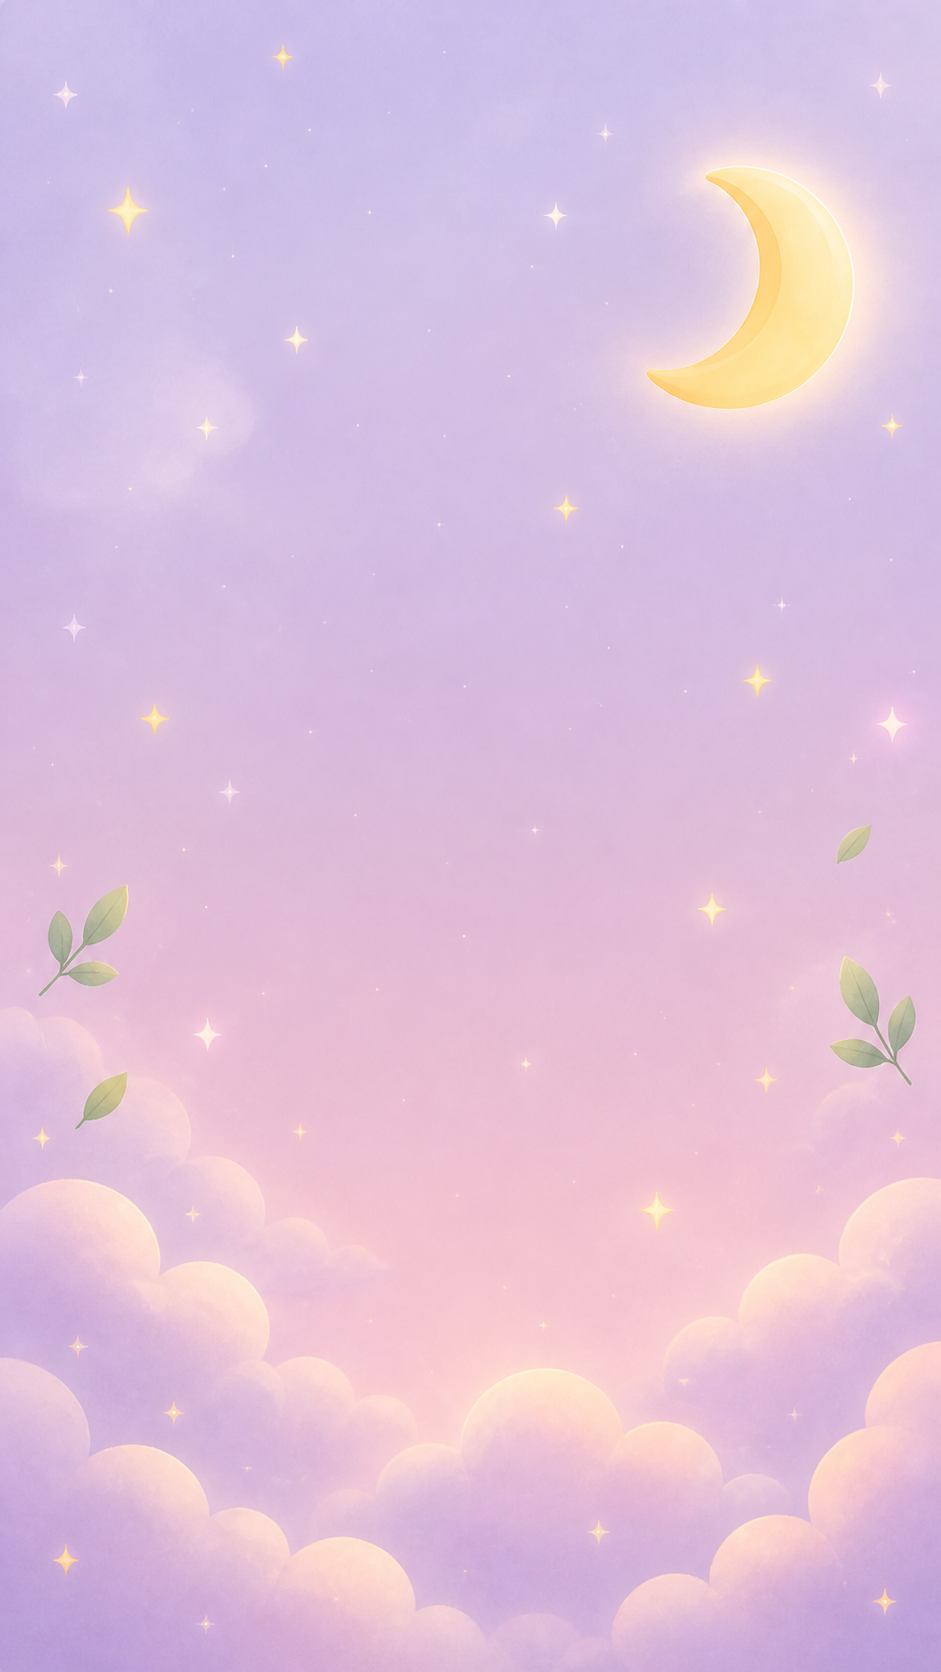
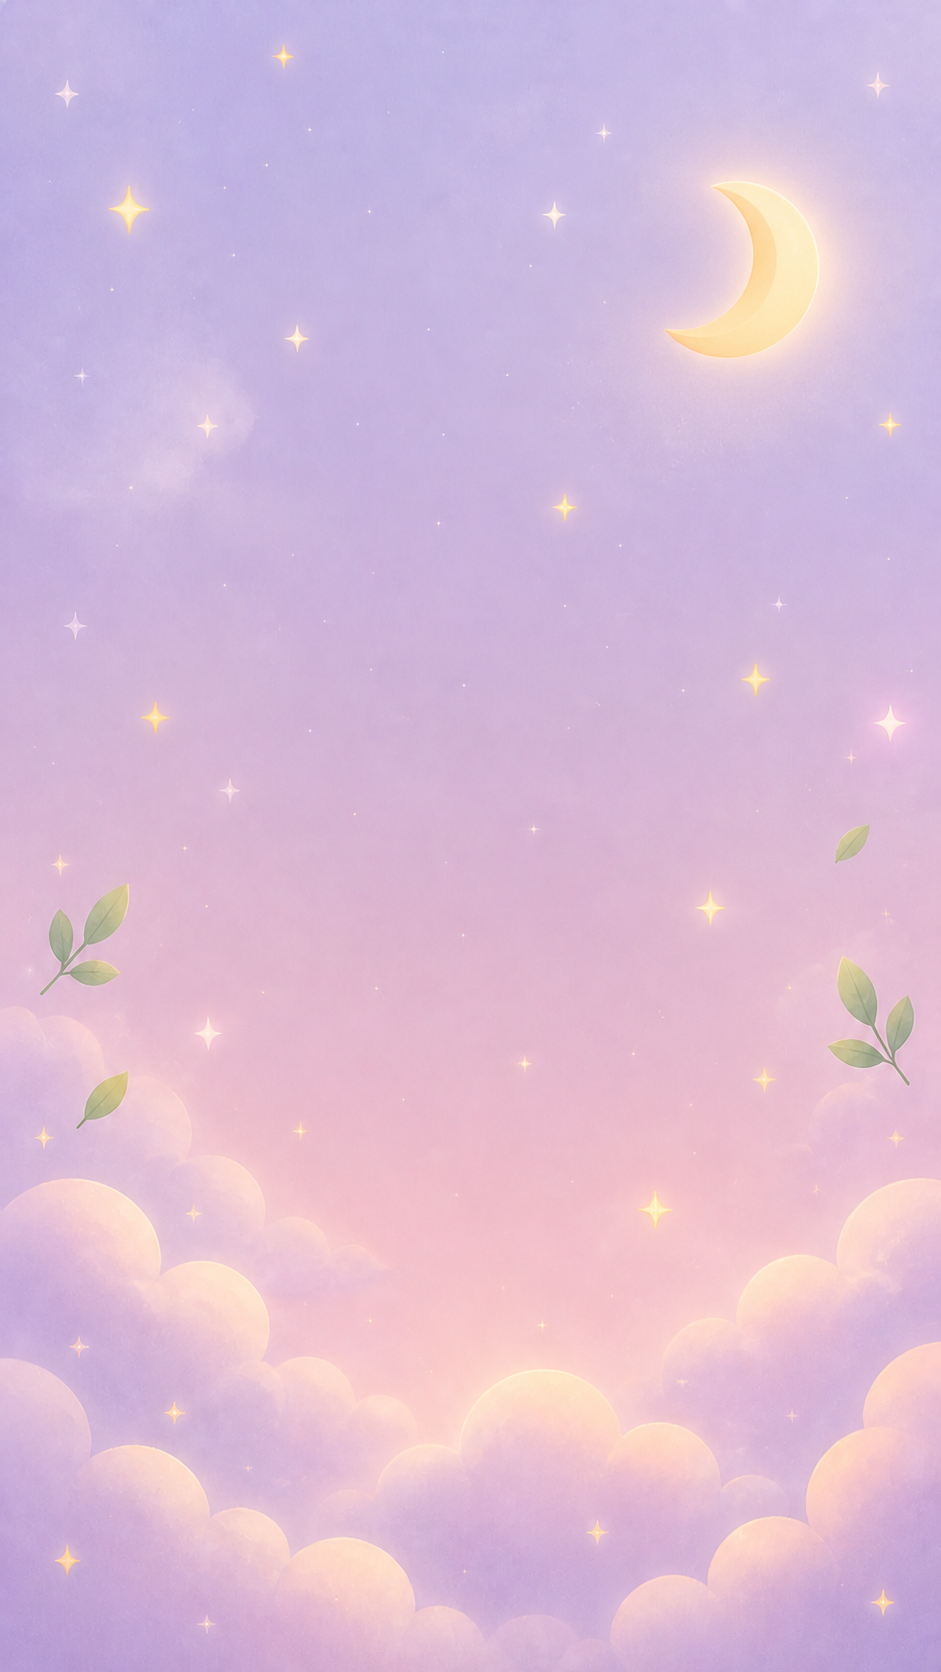
fixing backgrounds

Changed region(s): [[0.678, 0.0933, 0.9554, 0.2799], [0.9245, 0.5909, 0.9554, 0.6531]]

diff --git a/snoozy-android/src/screens/HomeScreen.tsx b/snoozy-android/src/screens/HomeScreen.tsx
@@ -141,9 +141,15 @@ export function HomeScreen() {
       >
         <LinearGradient
           colors={['transparent', `${colors.background}22`, `${colors.background}99`]}
-          locations={[0, 0.7, 1]}
+          locations={[0, 0, 1]}
           style={StyleSheet.absoluteFill}
         />
+
+        {/* <LinearGradient
+          colors={['transparent', `${colors.background}AA`, colors.background]}
+          locations={[0, 0.55, 1]}
+          style={StyleSheet.absoluteFill}
+        /> */}
       </ImageBackground>
 
       <SafeAreaView edges={['bottom']} style={styles.safeArea}>
@@ -151,6 +157,7 @@ export function HomeScreen() {
         data={savedStories.slice(0, 3)}
         renderItem={renderItem}
         keyExtractor={keyExtractor}
+        scrollEnabled={savedStories.length > 0}
         onScroll={handleScroll}
         scrollEventThrottle={16}
         ItemSeparatorComponent={() => <View style={styles.separator} />}
@@ -163,7 +170,7 @@ export function HomeScreen() {
               <Text style={styles.greetingLead}>{getGreetingLead()}</Text>
               <View style={styles.nameRow}>
                 <Text style={styles.childName}>{childName}</Text>
-                <Text style={[styles.starGlyph, { color: colors.starGold }]}>✦</Text>
+                {/* <Text style={[styles.starGlyph, { color: colors.starGold }]}>✦</Text> */}
               </View>
               {/* <Text style={[styles.greetingSub, { color: colors.vibeSelected }]}>
                 Ready for a magical story?

diff --git a/snoozy-android/src/screens/SplashScreen.tsx b/snoozy-android/src/screens/SplashScreen.tsx
@@ -120,8 +120,8 @@ const styles = StyleSheet.create({
     marginBottom: Spacing.md,
   },
   mascot: {
-    width: SCREEN_WIDTH * 0.38,
-    height: SCREEN_WIDTH * 0.38,
+    width: SCREEN_WIDTH * 0.7,
+    height: SCREEN_WIDTH * 0.7,
   },
   nameRow: {
     flexDirection: 'row',